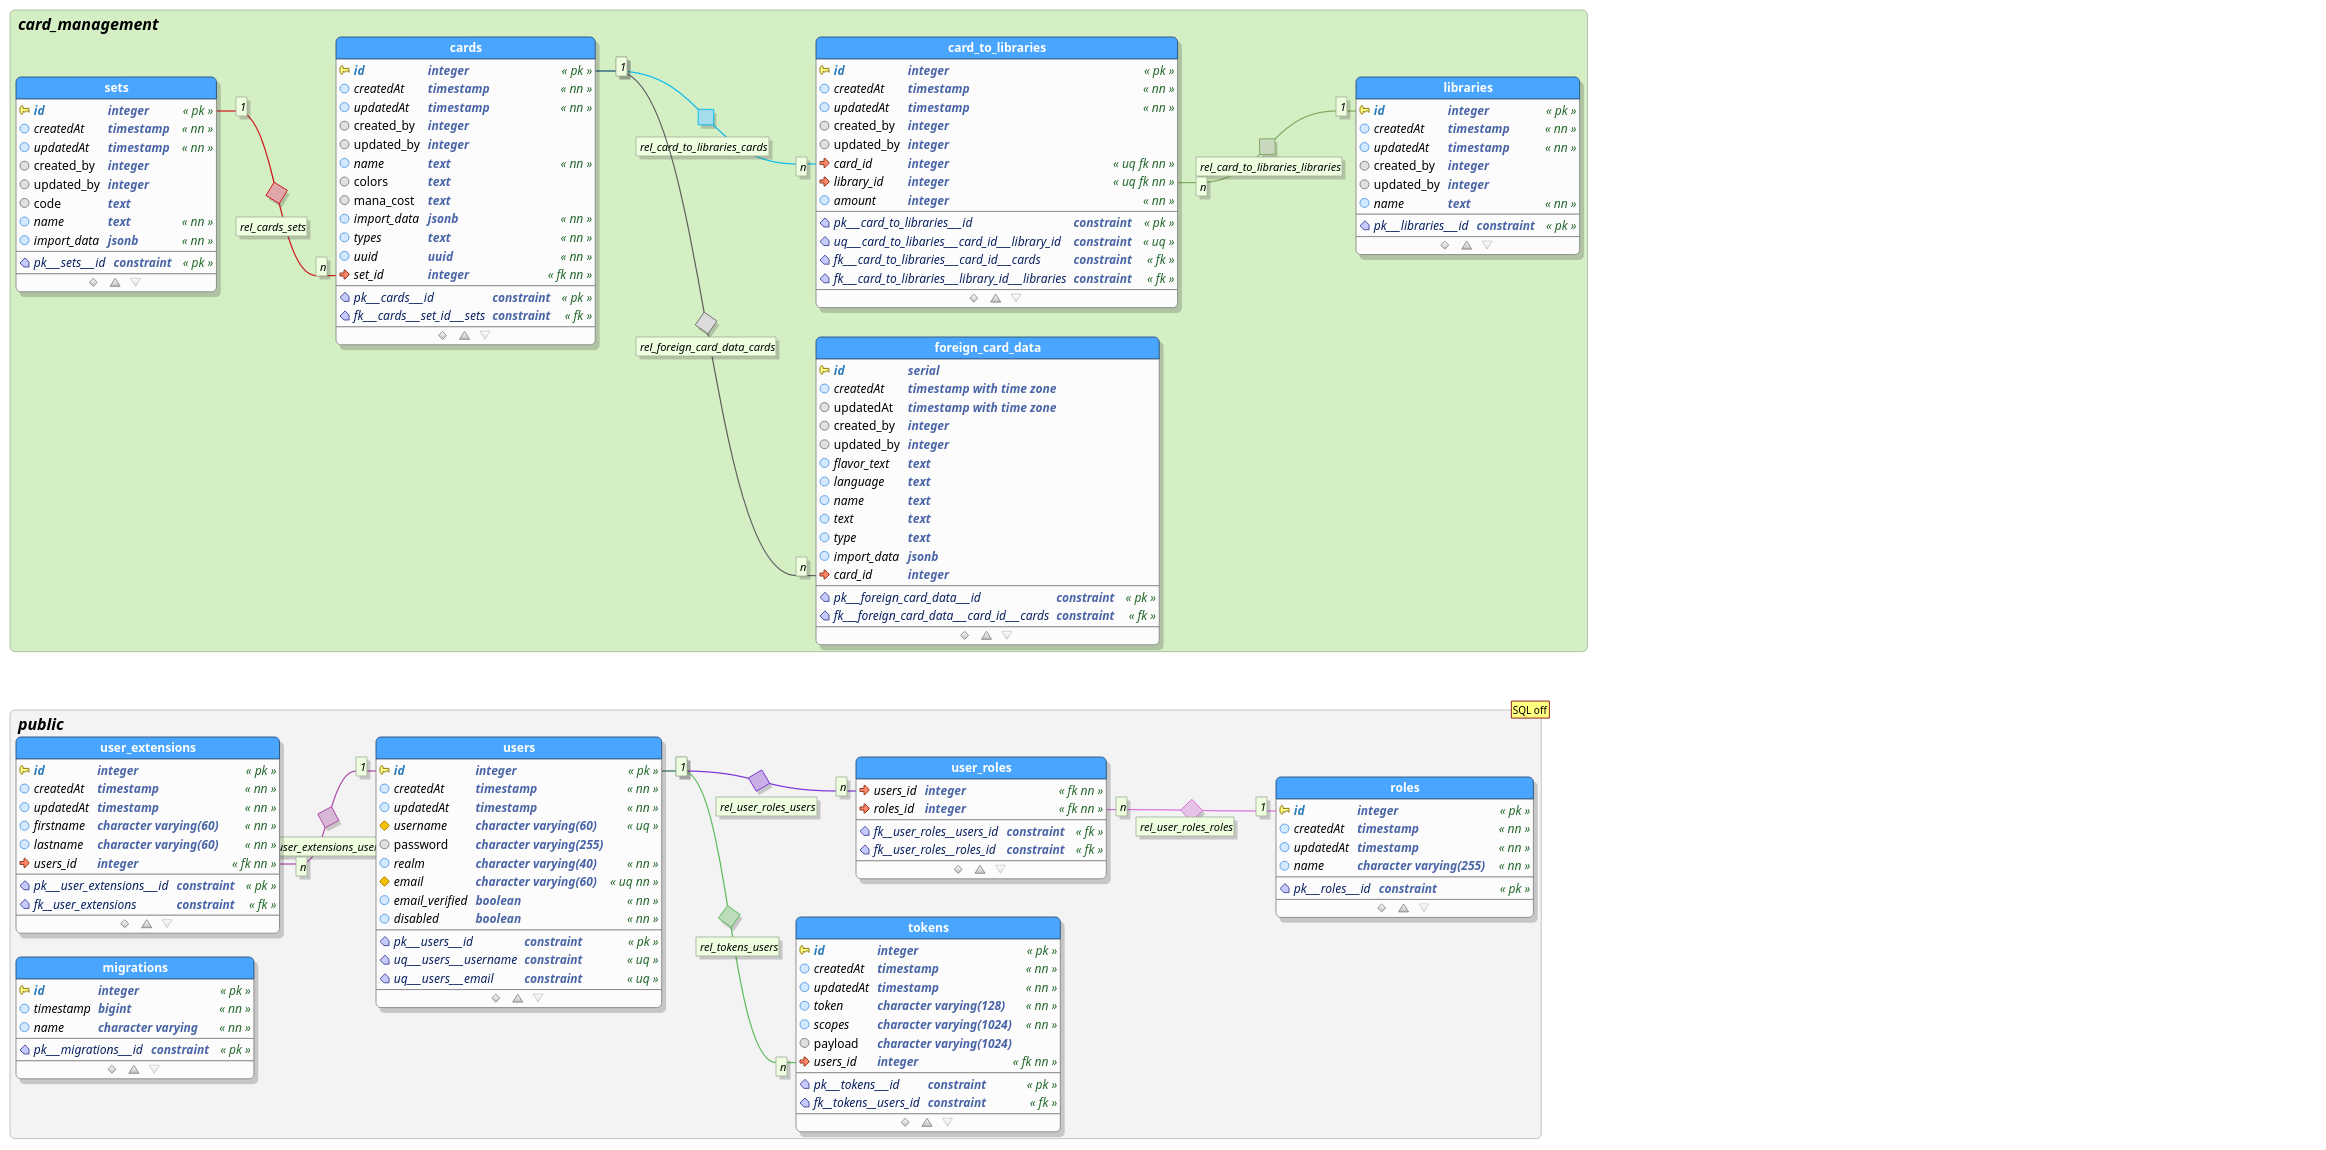
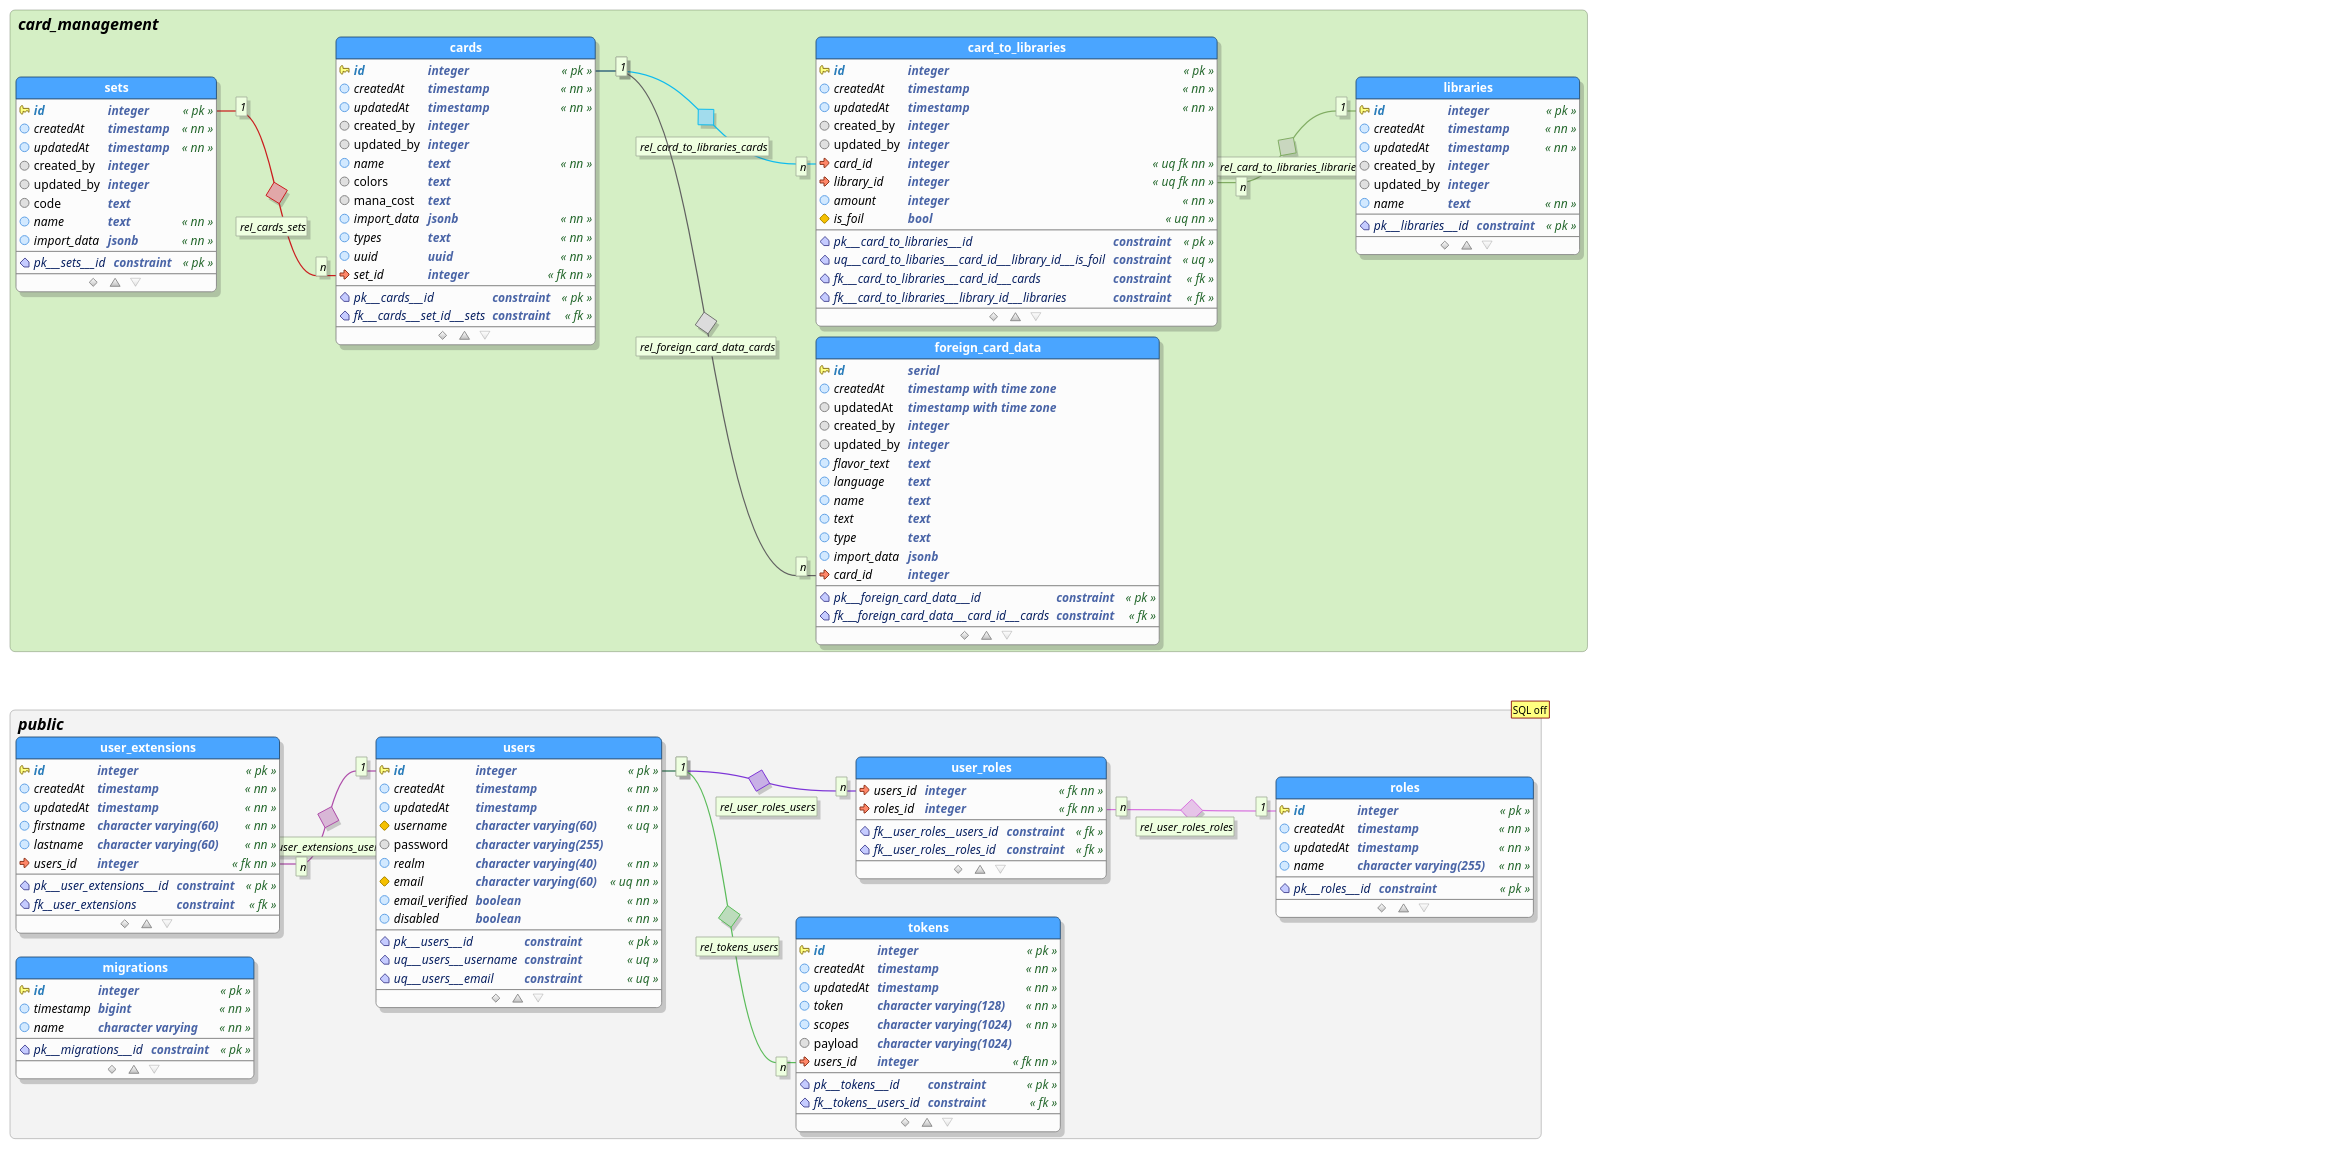
feat: allow a user to specify if a card is foil

Changed region(s): [[0.3405, 0.0304, 0.5881, 0.3043], [0.4024, 0.0304, 0.4643, 0.0609]]

diff --git a/src/controllers/library.controller.ts b/src/controllers/library.controller.ts
@@ -4,6 +4,7 @@
 
 // tslint:disable:no-duplicate-string
 
+import { Logger } from '@flyacts/backend';
 import {
     Controller,
     CurrentUser,
@@ -24,7 +25,7 @@ import { CardEntity } from '../entities/card.entity';
 import { LibraryEntity } from '../entities/library.entity';
 import { UserExtensionEntity } from '../entities/user-extension.entity';
 import LibraryOverviewPage from '../templates/pages/libary-overview.page';
-import { LibraryCardAddPreviewPage } from '../templates/pages/library-card-add-preview.page';
+import LibraryCardAddPreviewPage from '../templates/pages/library-card-add-preview.page';
 import LibraryDetailPage from '../templates/pages/library-detail.page';
 
 
@@ -37,6 +38,7 @@ export class LibraryController {
 
     public constructor(
         private connection: Connection,
+        private logger: Logger,
     ) {
 
     }
@@ -144,23 +146,32 @@ export class LibraryController {
      */
     @Post('/:id/cards/submit')
     @Redirect('/libraries')
+    // tslint:disable-next-line:cognitive-complexity
     public async submitCards(
         @Param('id') id: number,
         @FormField('card_id') cardIDValues?: string[],
         @FormField('amount') amountValues?: string[],
+        @FormField('isFoil') isFoilValues?: string[],
     ) {
+        this.logger.debug('data', { amountValues, isFoilValues });
         const library = await this.getLibrary(id);
 
-        const amounts: { [index: string]: number } = {};
+        const amounts: { [index: string]: { amount: number, isFoil: boolean } } = {};
 
-        if (Array.isArray(cardIDValues) && Array.isArray(amountValues)) {
+        if (
+            Array.isArray(cardIDValues) &&
+            Array.isArray(amountValues)) {
             let index = 0;
             for (const cardID of cardIDValues) {
 
                 const currentAmount = Number.parseInt(amountValues[index]);
+                const isFoil = (Array.isArray(isFoilValues) ? isFoilValues[index] === 'on' : false);
 
                 if (!Number.isNaN(currentAmount)) {
-                    amounts[cardID] = currentAmount;
+                    amounts[cardID] = {
+                        amount: currentAmount,
+                        isFoil: isFoil,
+                    };
                 }
 
                 index += 1;
@@ -178,11 +189,32 @@ export class LibraryController {
             if (!(card instanceof CardEntity)) {
                 continue;
             }
-            const association = new CardToLibraryEntity();
 
-            association.card = card;
-            association.library = library;
-            association.amount = amounts[key];
+            let association = await this
+                .connection
+                .getRepository(CardToLibraryEntity)
+                .createQueryBuilder('c2l')
+                .innerJoinAndSelect('c2l.card', 'c2l__c')
+                .innerJoinAndSelect('c2l.library', 'c2l__l')
+                .where('c2l__c.id = :cardId')
+                .andWhere('c2l__l.id = :libraryId')
+                .andWhere('c2l.is_foil = :isFoil')
+                .setParameters({
+                    cardId: card.id,
+                    libraryId: library.id,
+                    isFoil: amounts[key].isFoil,
+                })
+                .getOne();
+
+            if (association instanceof CardToLibraryEntity) {
+                association.amount += amounts[key].amount;
+            } else {
+                association = new CardToLibraryEntity();
+                association.card = card;
+                association.library = library;
+                association.amount = amounts[key].amount;
+                association.isFoil = amounts[key].isFoil;
+            }
 
             await this.connection.manager.save(association);
         }

diff --git a/src/templates/pages/library-card-add-preview.page.tsx b/src/templates/pages/library-card-add-preview.page.tsx
@@ -3,6 +3,7 @@
  */
 
 import * as React from 'react';
+import { withTranslation, WithTranslation } from 'react-i18next';
 
 import { CardEntity } from '../../entities/card.entity';
 import { LibraryEntity } from '../../entities/library.entity';
@@ -16,11 +17,7 @@ export interface LibraryCardAddPreviewProps {
 /**
  * Render a libray Detail
  */
-export class LibraryCardAddPreviewPage extends React.Component<LibraryCardAddPreviewProps, {}> {
-    public constructor(props: Readonly<LibraryCardAddPreviewProps>) {
-        super(props);
-    }
-
+class LibraryCardAddPreviewPage extends React.Component<LibraryCardAddPreviewProps & WithTranslation, {}> {
     /**
      * Reacts render method
      */
@@ -30,13 +27,14 @@ export class LibraryCardAddPreviewPage extends React.Component<LibraryCardAddPre
                 <table className='table is-fullwidth'>
                     <thead>
                         <tr>
-                            <th>ID</th>
-                            <th>Type</th>
-                            <th>Name</th>
-                            <th>Farbe</th>
-                            <th>Kosten</th>
-                            <th>Set</th>
-                            <th>Amount</th>
+                            <th>{this.props.t('library.cardPreview.id')}</th>
+                            <th>{this.props.t('library.cardPreview.type')}</th>
+                            <th>{this.props.t('library.cardPreview.name')}</th>
+                            <th>{this.props.t('library.cardPreview.color')}</th>
+                            <th>{this.props.t('library.cardPreview.manaCost')}</th>
+                            <th>{this.props.t('library.cardPreview.set')}</th>
+                            <th>{this.props.t('library.cardPreview.amount')}</th>
+                            <th>{this.props.t('library.cardPreview.isFoil')}</th>
                         </tr>
                     </thead>
                     <tbody>
@@ -58,6 +56,9 @@ export class LibraryCardAddPreviewPage extends React.Component<LibraryCardAddPre
                                 <input type='hidden' name='card_id[]' value={item.id} />
                                 <input type='number' name='amount[]' />
                             </td>
+                            <td>
+                                <input type='checkbox' name='isFoil[]' />
+                            </td>
                         </tr>)}
                     </tbody>
                 </table>
@@ -66,3 +67,5 @@ export class LibraryCardAddPreviewPage extends React.Component<LibraryCardAddPre
         </MainComponent>;
     }
 }
+
+export default withTranslation()(LibraryCardAddPreviewPage);

diff --git a/src/templates/pages/library-detail.page.tsx b/src/templates/pages/library-detail.page.tsx
@@ -35,6 +35,9 @@ export class LibraryDetailPage extends React.Component<LibraryDetailPageProps & 
                     <td>{item.card.colors}</td>
                     <td>{item.card.manaCost}</td>
                     <td>{item.amount}</td>
+                    <td>
+                        <input type='checkbox' checked={item.isFoil} disabled={true} />
+                    </td>
                 </tr>) :
                 null
         );
@@ -52,6 +55,7 @@ export class LibraryDetailPage extends React.Component<LibraryDetailPageProps & 
                         <th>{this.props.t('library.cardOverview.colors')}</th>
                         <th>{this.props.t('library.cardOverview.manaCost')}</th>
                         <th>{this.props.t('library.cardOverview.amount')}</th>
+                        <th>{this.props.t('library.cardOverview.isFoil')}</th>
                     </tr>
                 </thead>
                 <tbody>

diff --git a/src/migrations/1581143669813-add-is-foil-to-card-assignment-table.ts b/src/migrations/1581143669813-add-is-foil-to-card-assignment-table.ts
@@ -1,0 +1,28 @@
+/*!
+ * @copyright Card Librarian Team 2020
+ */
+
+import * as fs from 'fs-extra';
+import * as path from 'path';
+import { MigrationInterface, QueryRunner } from 'typeorm';
+
+/**
+ * Run migration add_is_foil_to_card_assignment_tables
+ */
+export class AddIsFoilToCardAssignmentTable1581143669813 implements MigrationInterface {
+    /**
+     * TypeORMs migration up
+     */
+    public async up(queryRunner: QueryRunner) {
+        const query = await fs.readFile(path.resolve(__dirname, `${__filename.slice(0, __filename.length - 3)}.sql`), 'utf-8');
+        await queryRunner.query(query);
+    }
+
+    /**
+     * TypeORMs migration down
+     */
+    public async down(_queryRunner: QueryRunner) {
+        throw new Error('Not Possible');
+    }
+
+}

diff --git a/src/entities/card-to-library.entity.ts b/src/entities/card-to-library.entity.ts
@@ -32,4 +32,9 @@ export class CardToLibraryEntity extends BaseEntity {
 
     @Column()
     public amount!: number;
+
+    @Column({
+        name: 'is_foil',
+    })
+    public isFoil: boolean = false;
 }
